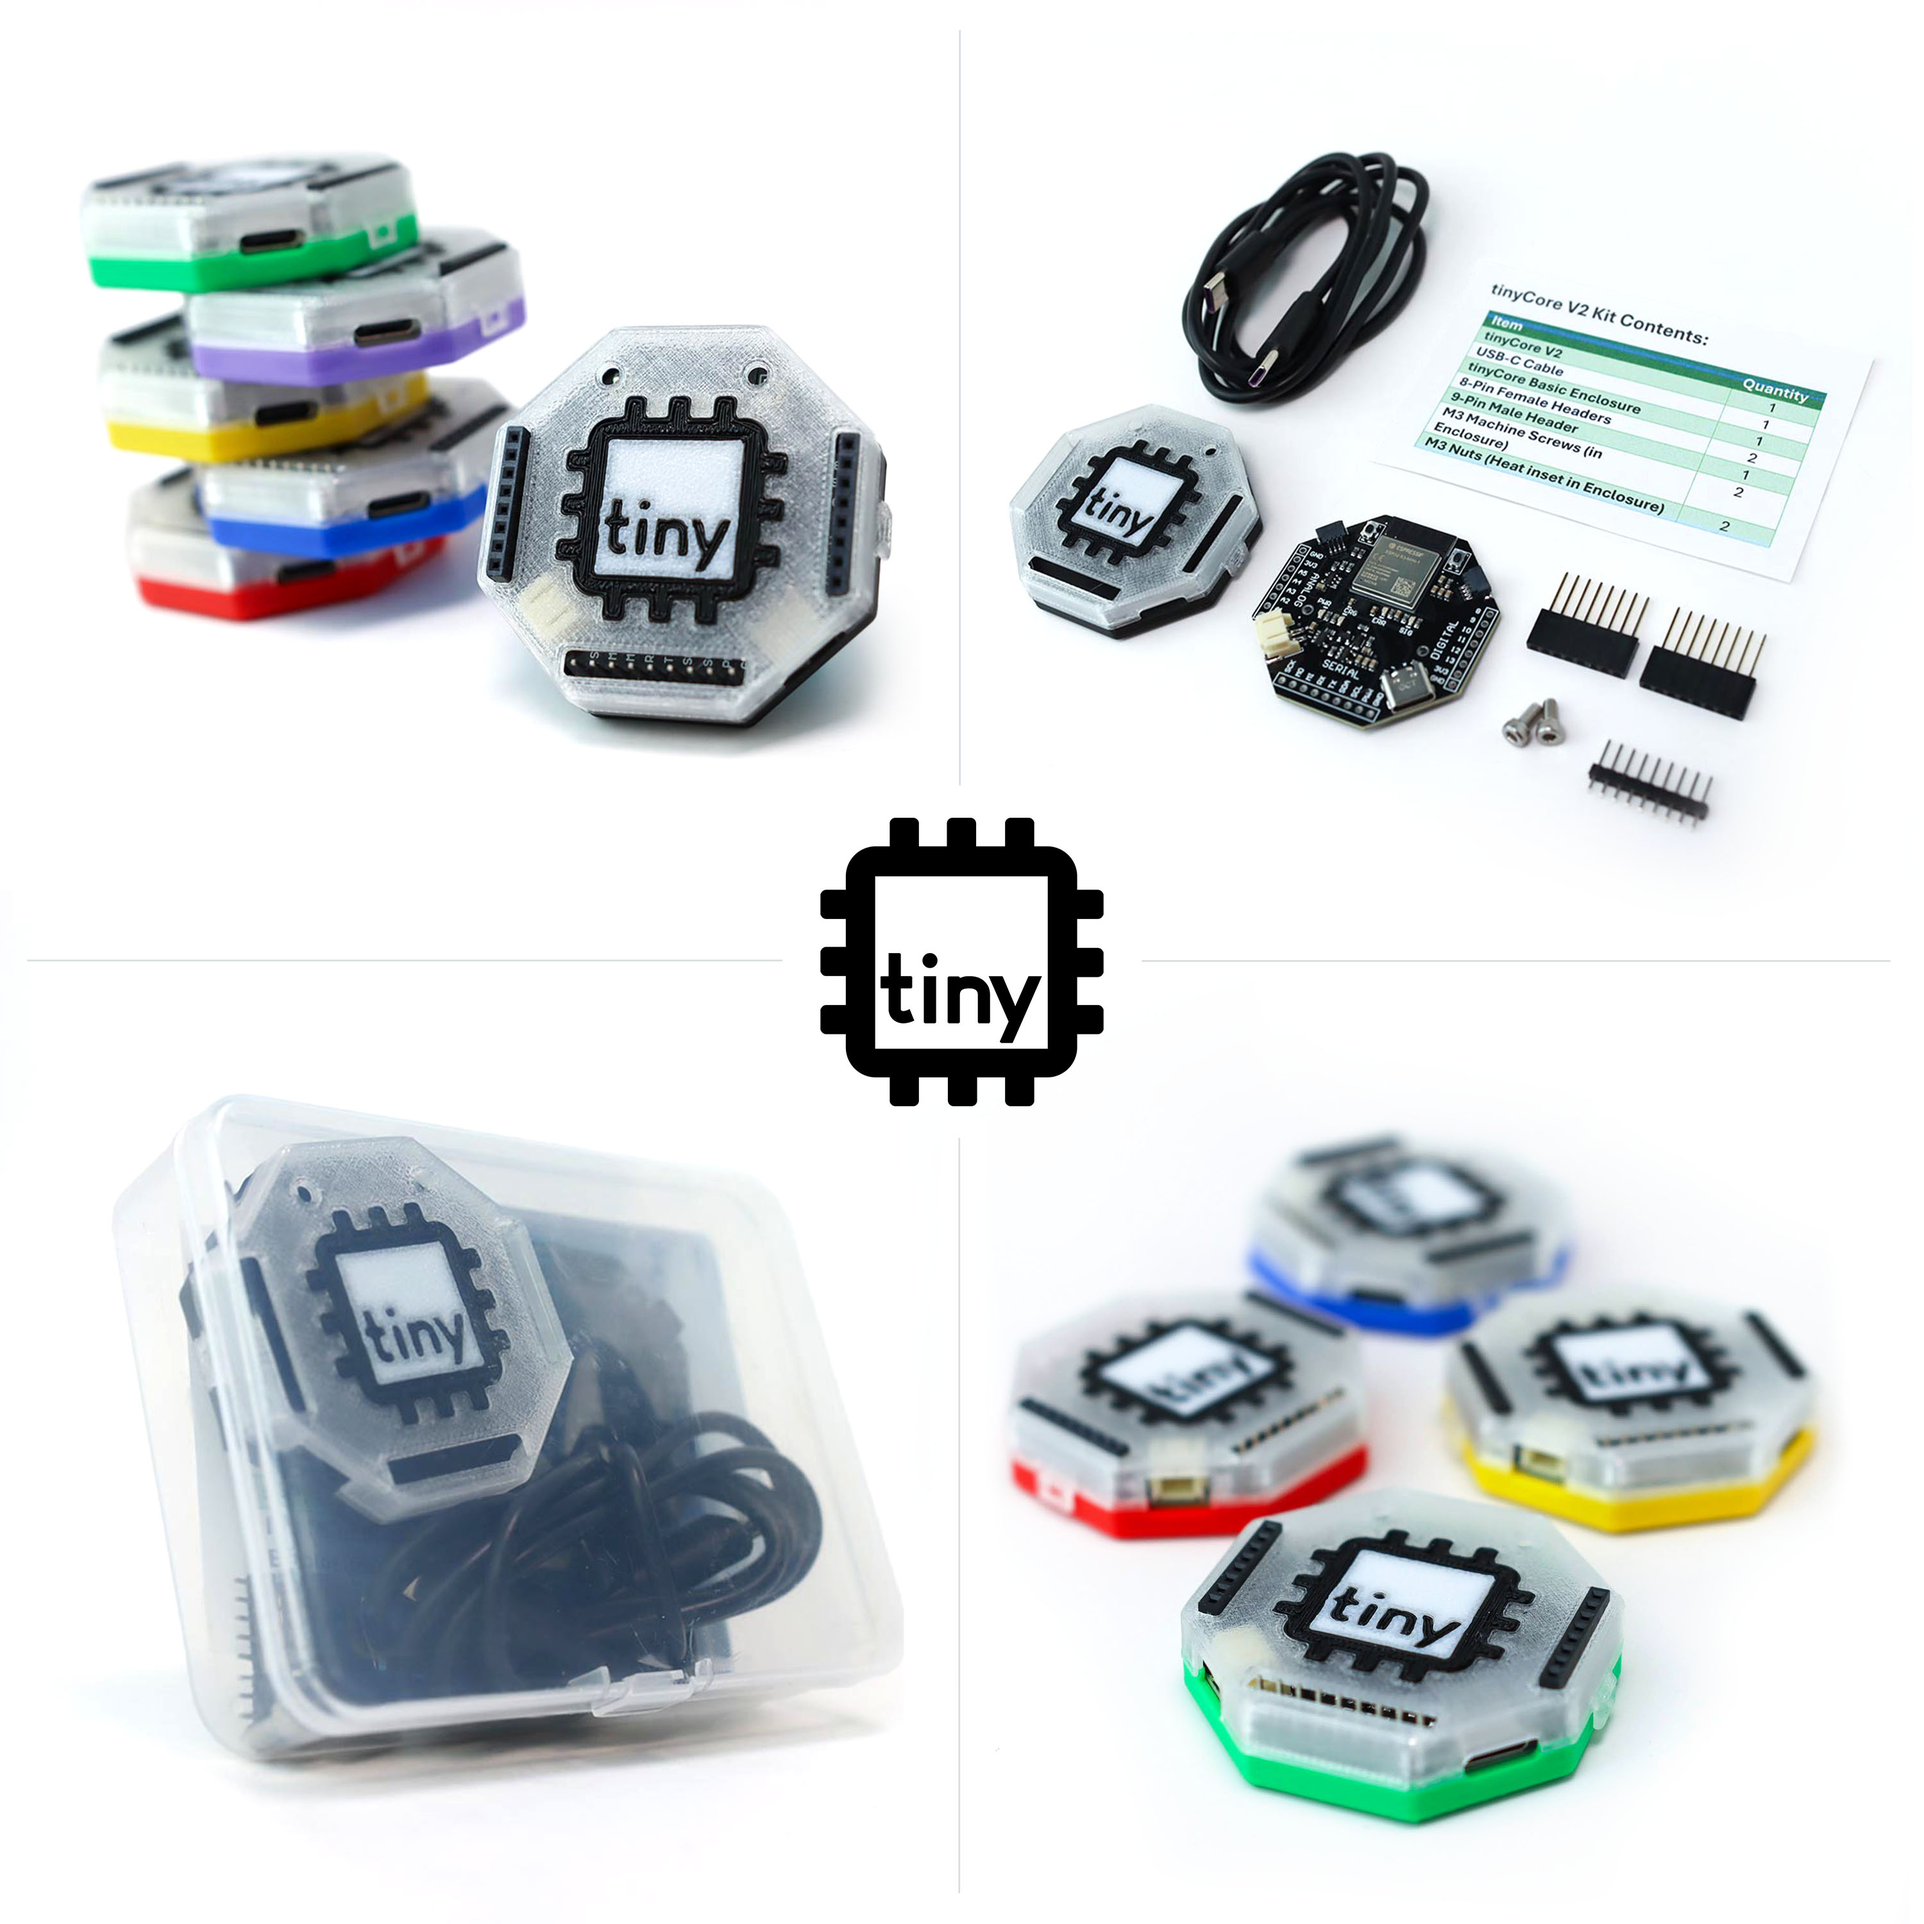
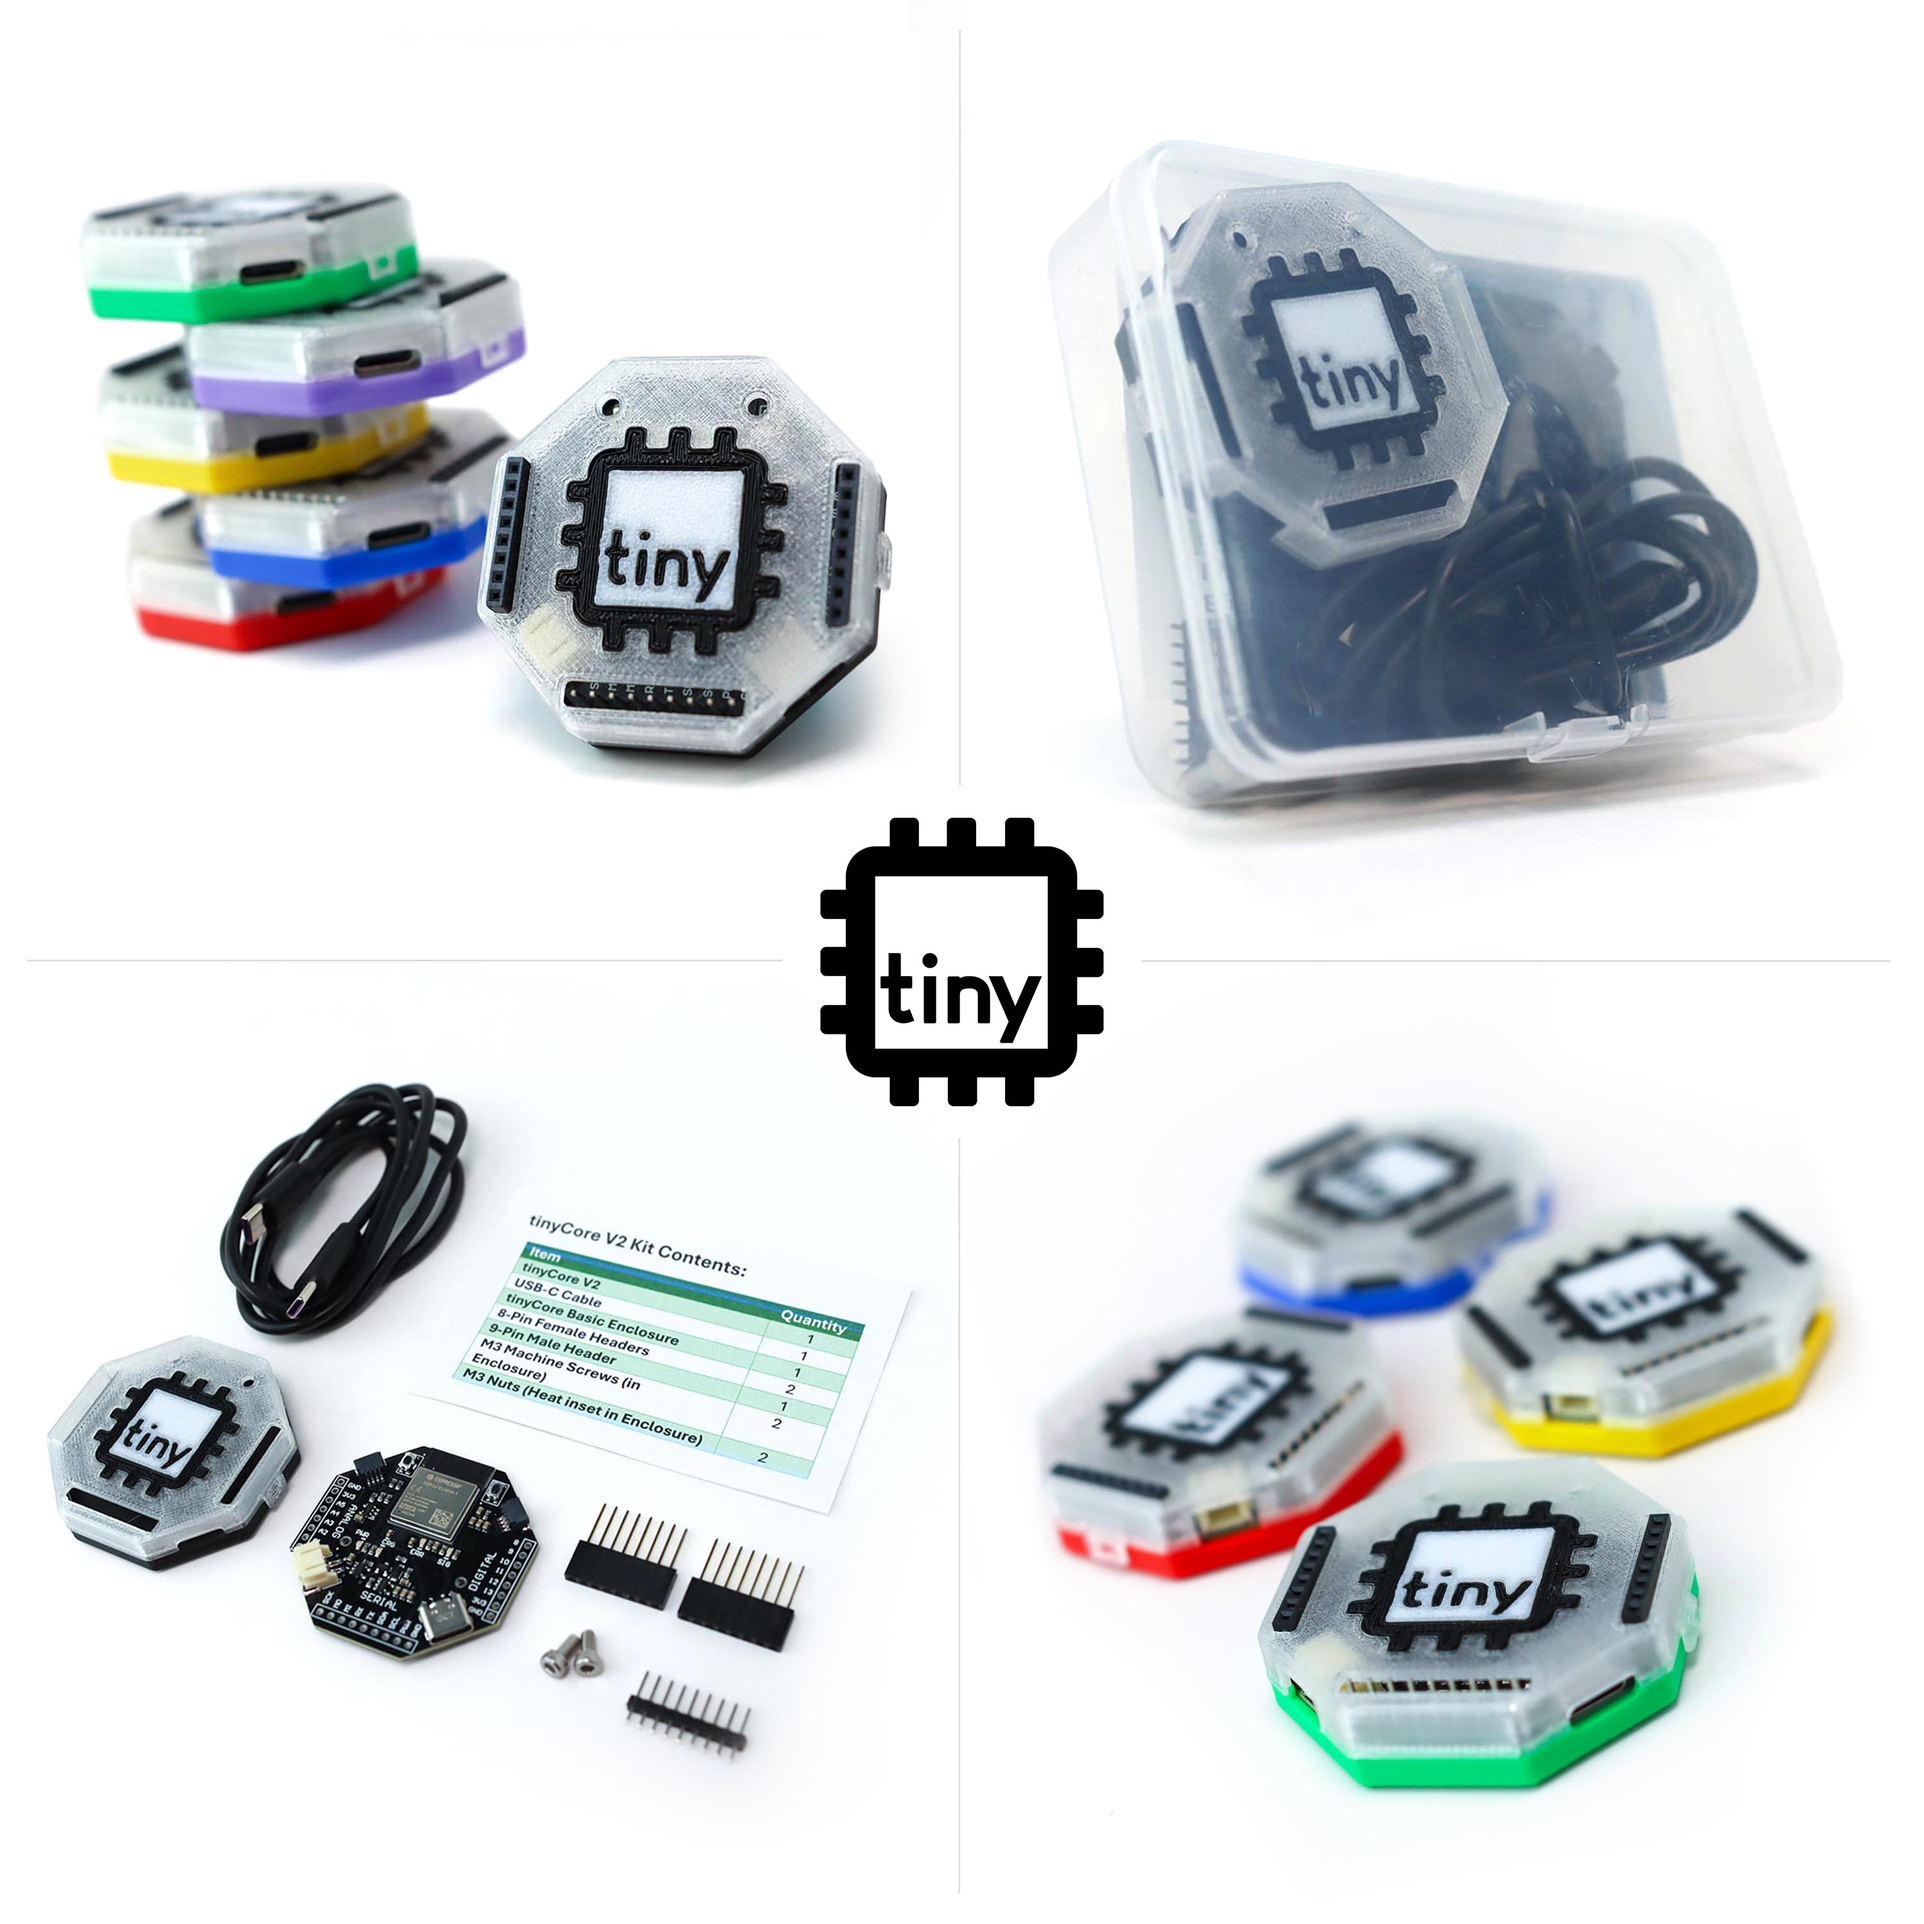
Wrote Weeknotes 2

diff --git a/docs/index.md b/docs/index.md
@@ -11,10 +11,10 @@ hide:
   - navigation
 ---
 
-## What is tinyCore?
 <div class="grid" markdown>
-
 <div class="grid-item" markdown >
+
+## What is tinyCore?
 ---
 
 tinyCore is an engineering learning platform based around a truly open-source (open-knowledge) microcontroller designed to help educate individuals on the world of advanced embedded systems. tinyCore’s mission is to bridge the gap between undergrad and industry, equipping young professionals with the resources they need to build their portfolio and bring their ideas to life. 
@@ -26,6 +26,7 @@ tinyCore is an engineering learning platform based around a truly open-source (o
 * Integrated Motion Tracking
 * Built-in SD Card
 * Arduino IDE and CircuitPython
+<br/><br/>
 
 [Start Building!](get-started){ .md-button .md-button--primary }
 </div>
@@ -40,24 +41,42 @@ Whether you're a seasoned engineer or a curious beginner, there's a place for yo
 
 <div class="grid cards" markdown>
 
+<div class="grid cards" markdown>
 
-- ### Join the Discord
-  Our [Discord server](https://discord.gg/hvJZhwfQsF) provides weekly office hours, community hackathons, project showcases, and technical support. We'd love to see you there.
-  Stay updated with our latest developments and industry insights by following us on LinkedIn and BlueSky (@mr.industries). Our social channels feature regular project highlights and community spotlights.
+### Join the Discord
+---
 
-- ### Contributing
-  All contributions are welcome. Start by forking [our repository](https://github.com/Mister-Industries/tinyCore) and checking out our contribution guidelines. Not into coding? Help improve our documentation, share your project builds, or assist others in our Discord community.
+![StudentsPhoto](assets\images\IMG_2650.JPG)
 
-- ### Share Your Thoughts
-  Your feedback is important! Share feature requests and bug reports through GitHub Issues, or reach out directly at [support@mr.industries](mailto:support@mr.industries). Our team reviews all suggestions and typically responds within 24 hours.
+Our [Discord server](https://discord.gg/hvJZhwfQsF) provides weekly office hours, community hackathons, project showcases, and technical support. We'd love to see you there.
+  
+Stay updated with our latest developments and industry insights by following us on LinkedIn and [BlueSky](@mr.industries).
+</div>
+<div class="grid cards" markdown>
+
+### Contributing
+---
+
+![FoundersPhoto](assets\images\IMG_2420 (1).JPG)
+
+All contributions are welcome. Start by forking [our repository](https://github.com/Mister-Industries/tinyCore) and checking out our contribution guidelines. 
+
+Not into coding? Help improve our documentation, share your project builds, or assist others in our Discord community.
 
 </div>
+<div class="grid cards" markdown>
 
-## Resources:
+### Share Your Thoughts
 ---
-[FAQ](/faq)
+![FoundersPhoto](assets\images\IMG_2740.JPG)
 
-[User Projects](/user-spotlight)
+Your feedback is important to us! 
+
+Share feature requests and bug reports through GitHub Issues, or reach out directly at [support@mr.industries](mailto:support@mr.industries). 
+
+Our team reviews all suggestions and typically responds within 24 hours.
+</div>
+</div>
 
 ## About the Team:
 ---
@@ -78,7 +97,7 @@ By building in the open and putting humans first, [MR.INDUSTRIES](http://MR.INDU
 
 <div class="grid-item" markdown >
 
-![FoundersPhoto](assets/images/20230715_113507%20(1).jpg)
+![FoundersPhoto](assets\images\IMG_2787.JPG)
 
 *Aiden (left) and Geoff (right) at Open Sauce 2023 with Colin Furze (YouTuber, unaffiliated)*
 </div>
@@ -88,10 +107,10 @@ By building in the open and putting humans first, [MR.INDUSTRIES](http://MR.INDU
 ## Our Amazing Sponsors
 ---
 
-The tinyCore project thrives thanks to the generous support of our manufacturing and development partner:
-
 <div class="grid cards" markdown>
 <div markdown>
+The tinyCore project thrives thanks to the generous support of our manufacturing and development partner:
+
 ![PCBWay.png](assets/images/PCBWay.png)
 
 ---
@@ -100,10 +119,8 @@ The tinyCore project thrives thanks to the generous support of our manufacturing
 </div>
 
 <div markdown>
-</div>
-</div>
 
-### **Want to support us?**
+## **Want to support us?**
 
 ---
 
@@ -115,3 +132,12 @@ Help us advance open-source hardware development by supporting the project. Cons
 Monthly subscriptions through GitHub Sponsors or PCBWay directly fund new feature development and community resources. Supporters receive priority support, custom enclosure designs, and early access to new features. Together, we're making advanced microcontrollers accessible to everyone.
 
 </aside>
+
+</div>
+</div>
+
+## Resources:
+---
+[FAQ](/faq)
+
+[User Projects](/user-spotlight)

diff --git a/docs/blog/posts/weeknotes-2.md b/docs/blog/posts/weeknotes-2.md
@@ -17,23 +17,98 @@ hide:
   - navigation
 ---
 
-Welcome to Weeknotes Wednesday! If you're reading this Weeknote, then you probably already know what we're gonna be talking about.. We have a new docs website! This will hold all of our new documentation and weeknotes moving forward. It's still under construction, but we will be working to rapidly fill out tutorials, datasheets, how-to's and more!
+Hey everyone! Welcome to this week's Wednesday Weeknote. Here's what we've been up to:
+
+## 🔥 Highlights
+
+- Sexy new documentation website
+- Presented at the 20th Anniversary Celebration for Clear Creek Makerspace
+- Applied to the Underdogs Grant fund by MatrixOwl
+- Hand-delivered a tinyCore V2 Starter Kit to a *certain* YouTuber :sunglasses:
+- Our latest shipment of PCBs as arrived! (Next up: Testinggg)
 
 <!-- more -->
 
-Aside from creating this entire website, we have some other updates:
+---
 
-- Applied to the Clear Creek Makerspace Underdogs Grant fund with MatrixOwl
-- Hand-delivered a tinyCore V2 Starter Kit to a *certain* YouTuber :sunglasses:
-- Presented at the 20th Anniversary event for Clear Creek Makerspace
+### Hardware Updates
 
-Speaking of CCM, this Monday was their 20th Anniversary, and to celebrate, they hosted a large event, which we were invited to participate in! 
+tinyCore is now officially OSHWA certified! Aside from getting access to a neat logo for our silkscreen, this also means our little board meets all of OSHWA's rigorous open-source hardware standards, certifying that everyone has the freedom to hack, modify, and build upon our design.
+
+### Software & Documentation
+
+As you can probably tell since you're reading this weeknote.. We have a new docs website (with a sexy new subdomain too)! 
+
+![docs screenshot](weeknotes-2/screenshot1.jpg)
+
+This site will be the home for all of our new documentation and weeknotes moving forward. It's still under construction, but we will be working rapidly to fill out tutorials, datasheets, how-to's and more!
+
+### Production & Fulfillment
+
+Our first batch of new boards has arrived, and just in-time to miss some [fun changes](https://www.whitehouse.gov/presidential-actions/2025/04/regulating-imports-with-a-reciprocal-tariff-to-rectify-trade-practices-that-contribute-to-large-and-persistent-annual-united-states-goods-trade-deficits/) by our current administration. 
+
+The boards look great. We've successfully powered-up and flashed the first unit, which is now ready to be shipped!
+
+<div class="grid cards" markdown>
+
+  - ![IMG_2793](weeknotes-2/IMG_2793.JPG)
+
+  - ![IMG_2796](weeknotes-2/IMG_2796.JPG)
+
+  - ![IMG_2800](weeknotes-2/IMG_2800.JPG)
+
+</div>
+
+As the rest of our KoP[^1] makes it's way through lead-time, we're quickly beginning to ramp up our testing efforts with a custom rig, to standardize our procedures and process units rapidly. All of this will be documented in the open for learning purposes!
+
+[^1]: Kit of Parts
+
+### Community & Marketing
+
+This week was the 20th Anniversary of LocalWorks, the managers of Clear Creek Makerspace. They extended us an invitation to present our project which we gratefully accepted! And the community really liked it! 
 
 Here's some photos of our "booth" from the event. It was great to meet everyone, show off some of our student projects, and make the first irl debut of tinyCore!
 
-Our next batch of boards have just cleared customs and are on their way now!
+<div class="grid cards" markdown>
 
-We also received our new plastic enclosures and they look fantastic!
+  - ![IMG_2793](weeknotes-2/IMG_2740.JPG)
 
-More updates to come!
+  - ![IMG_2800](weeknotes-2/IMG_2746.JPG)
+
+</div>
+<div class="grid cards" markdown>
+
+  - ![IMG_2800](weeknotes-2/IMG_2769.JPG)
+
+  - ![IMG_2800](weeknotes-2/IMG_2765.JPG)
+
+  - ![IMG_2800](weeknotes-2/IMG_2786.JPG)
+
+</div>
+
+### Events & Opportunities
+
+If you'd like to meet us in-person, we've got several events coming up that we are scheduled to attend:
+
+- Mines Entrepreneurship Summit - 4/16
+- CU Boulder Engineering Expo - 4/25
+- ATLAS Expo - 5/1
+
+And we've currently applied to visit:
+
+- Open Hardware Summit in Edinburgh- 5/30
+- Open Sauce 2025- 7/18
+
+
+We're also actively working on our submission to the Hackster.io Board Design Competition, and will update you shortly on progress.
+
+### What's Next
+
+- Testing, soldering, and more testing :tired_face:
+- Fulfillment of our first pre-orders! 
+- Continued development of our documentation
+
+---
+
+**We're trying a new style with the format of these weeknotes with MkDocs. As always, we'd love your feedback! Drop us a comment with your comments, projects, or questions!**
 
